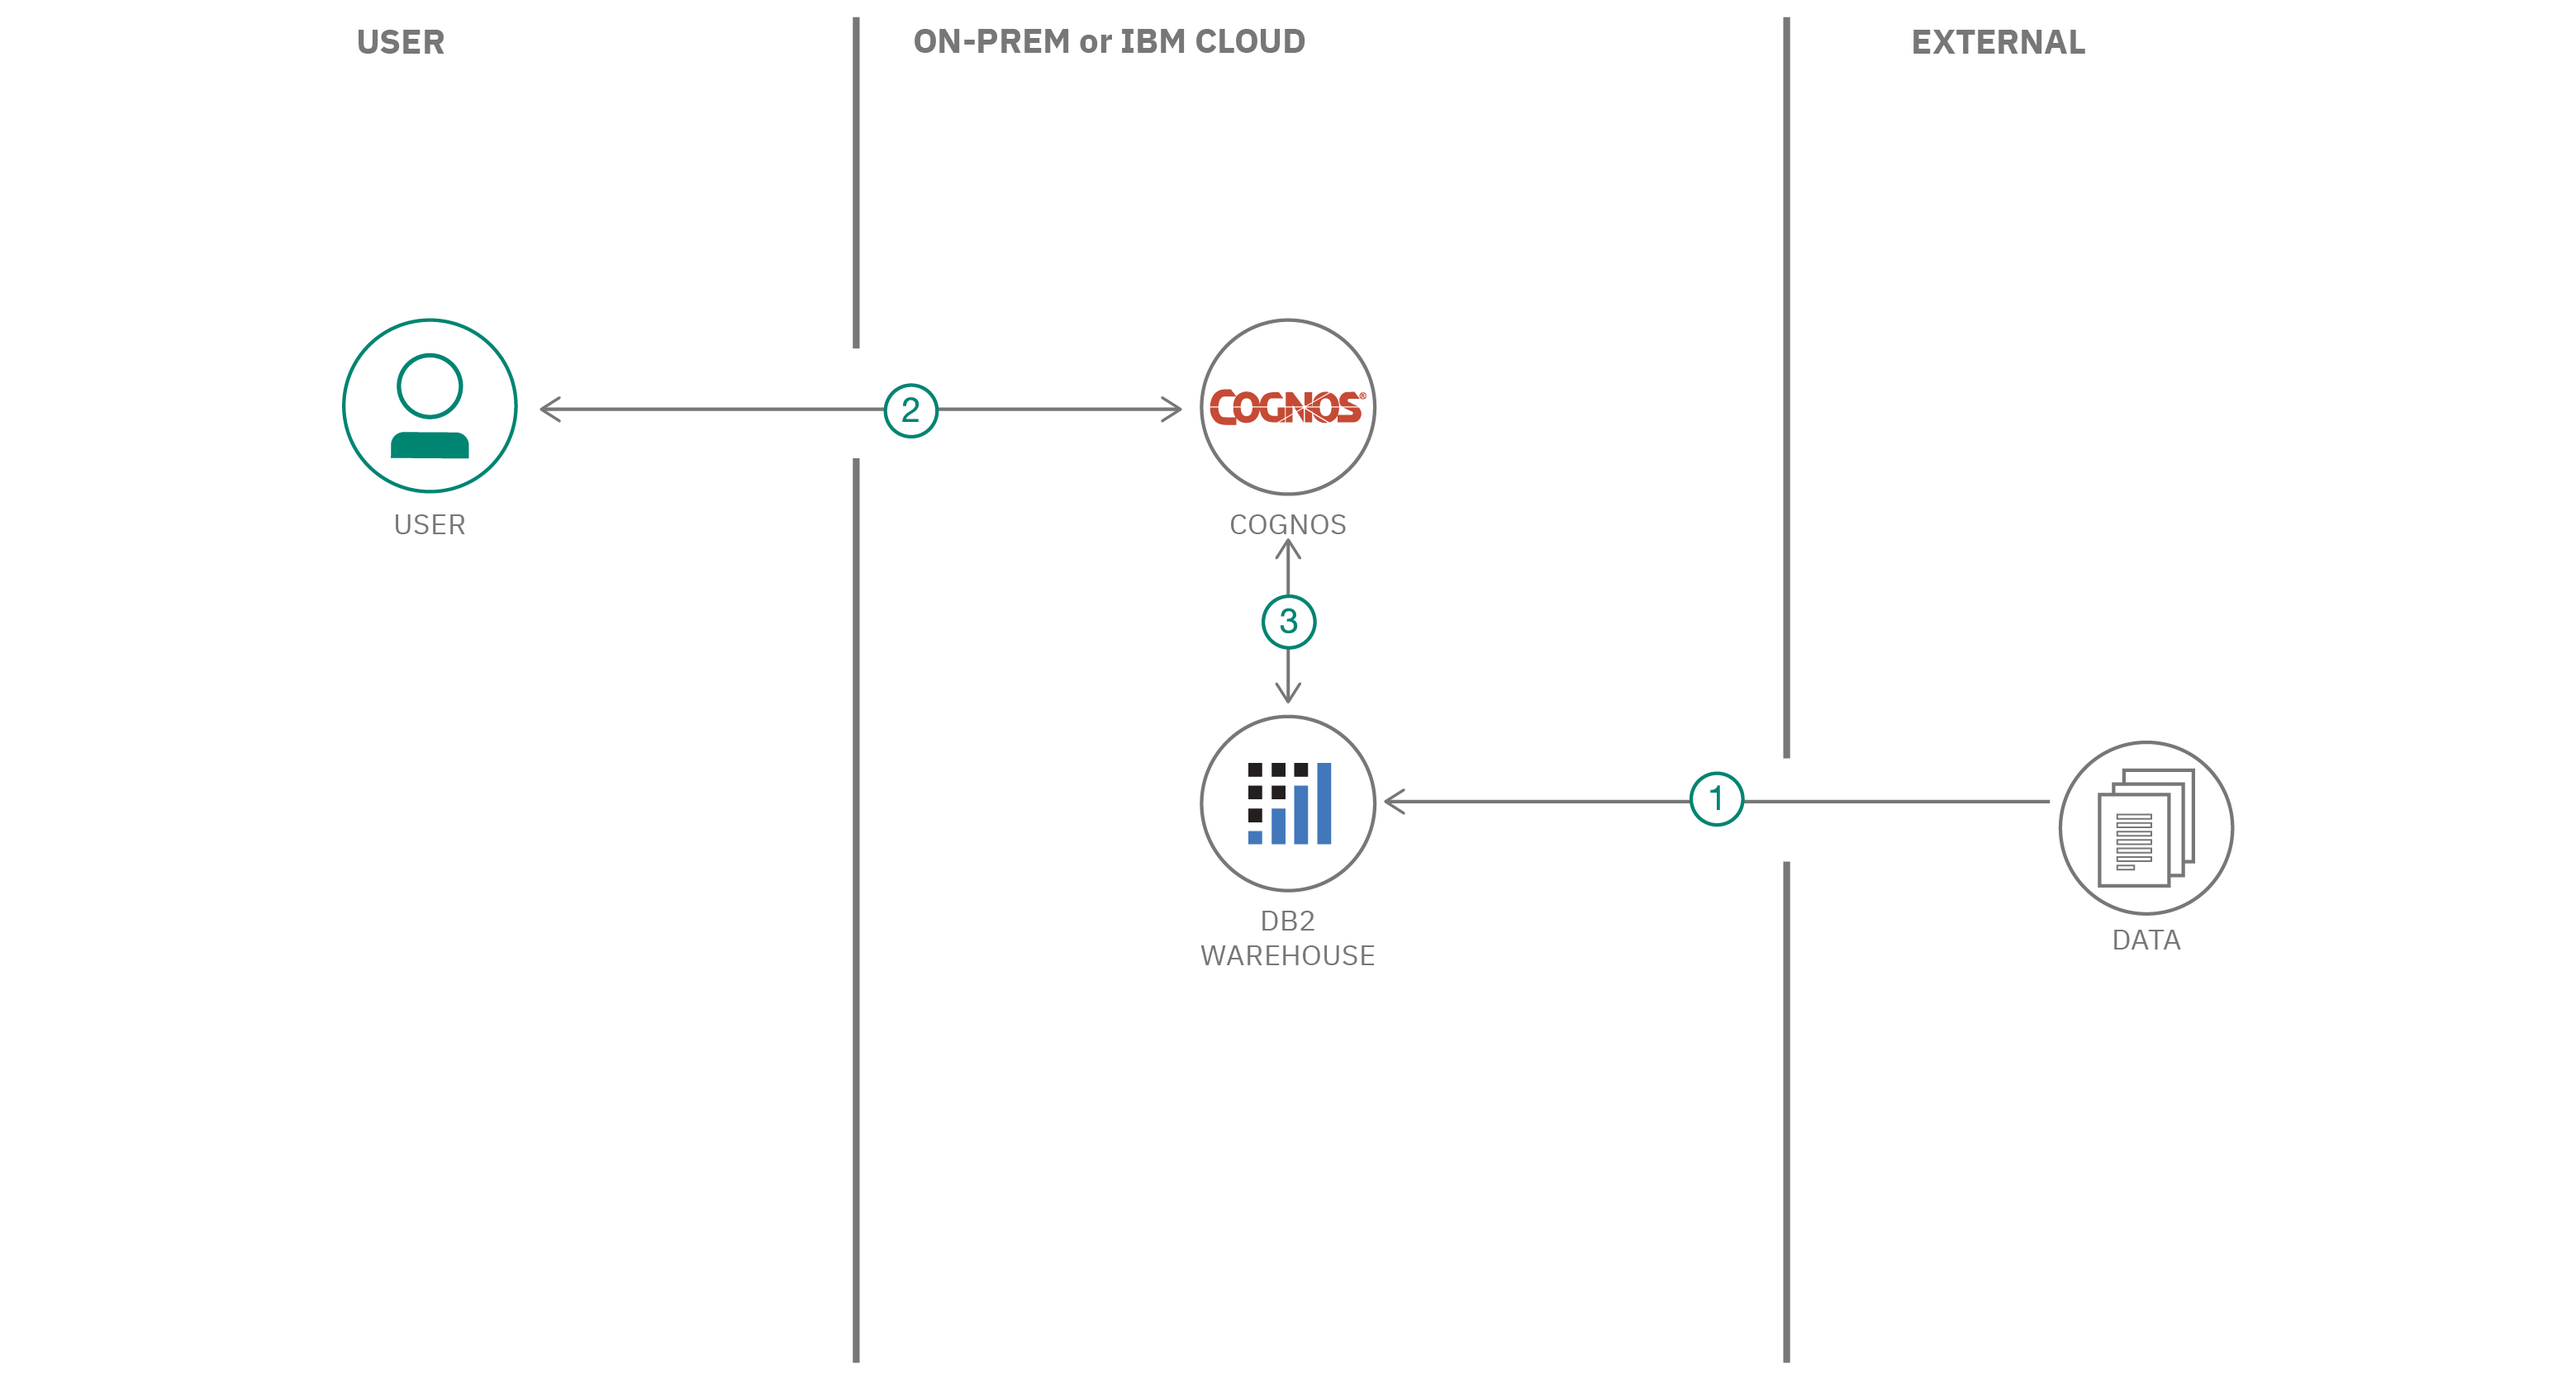
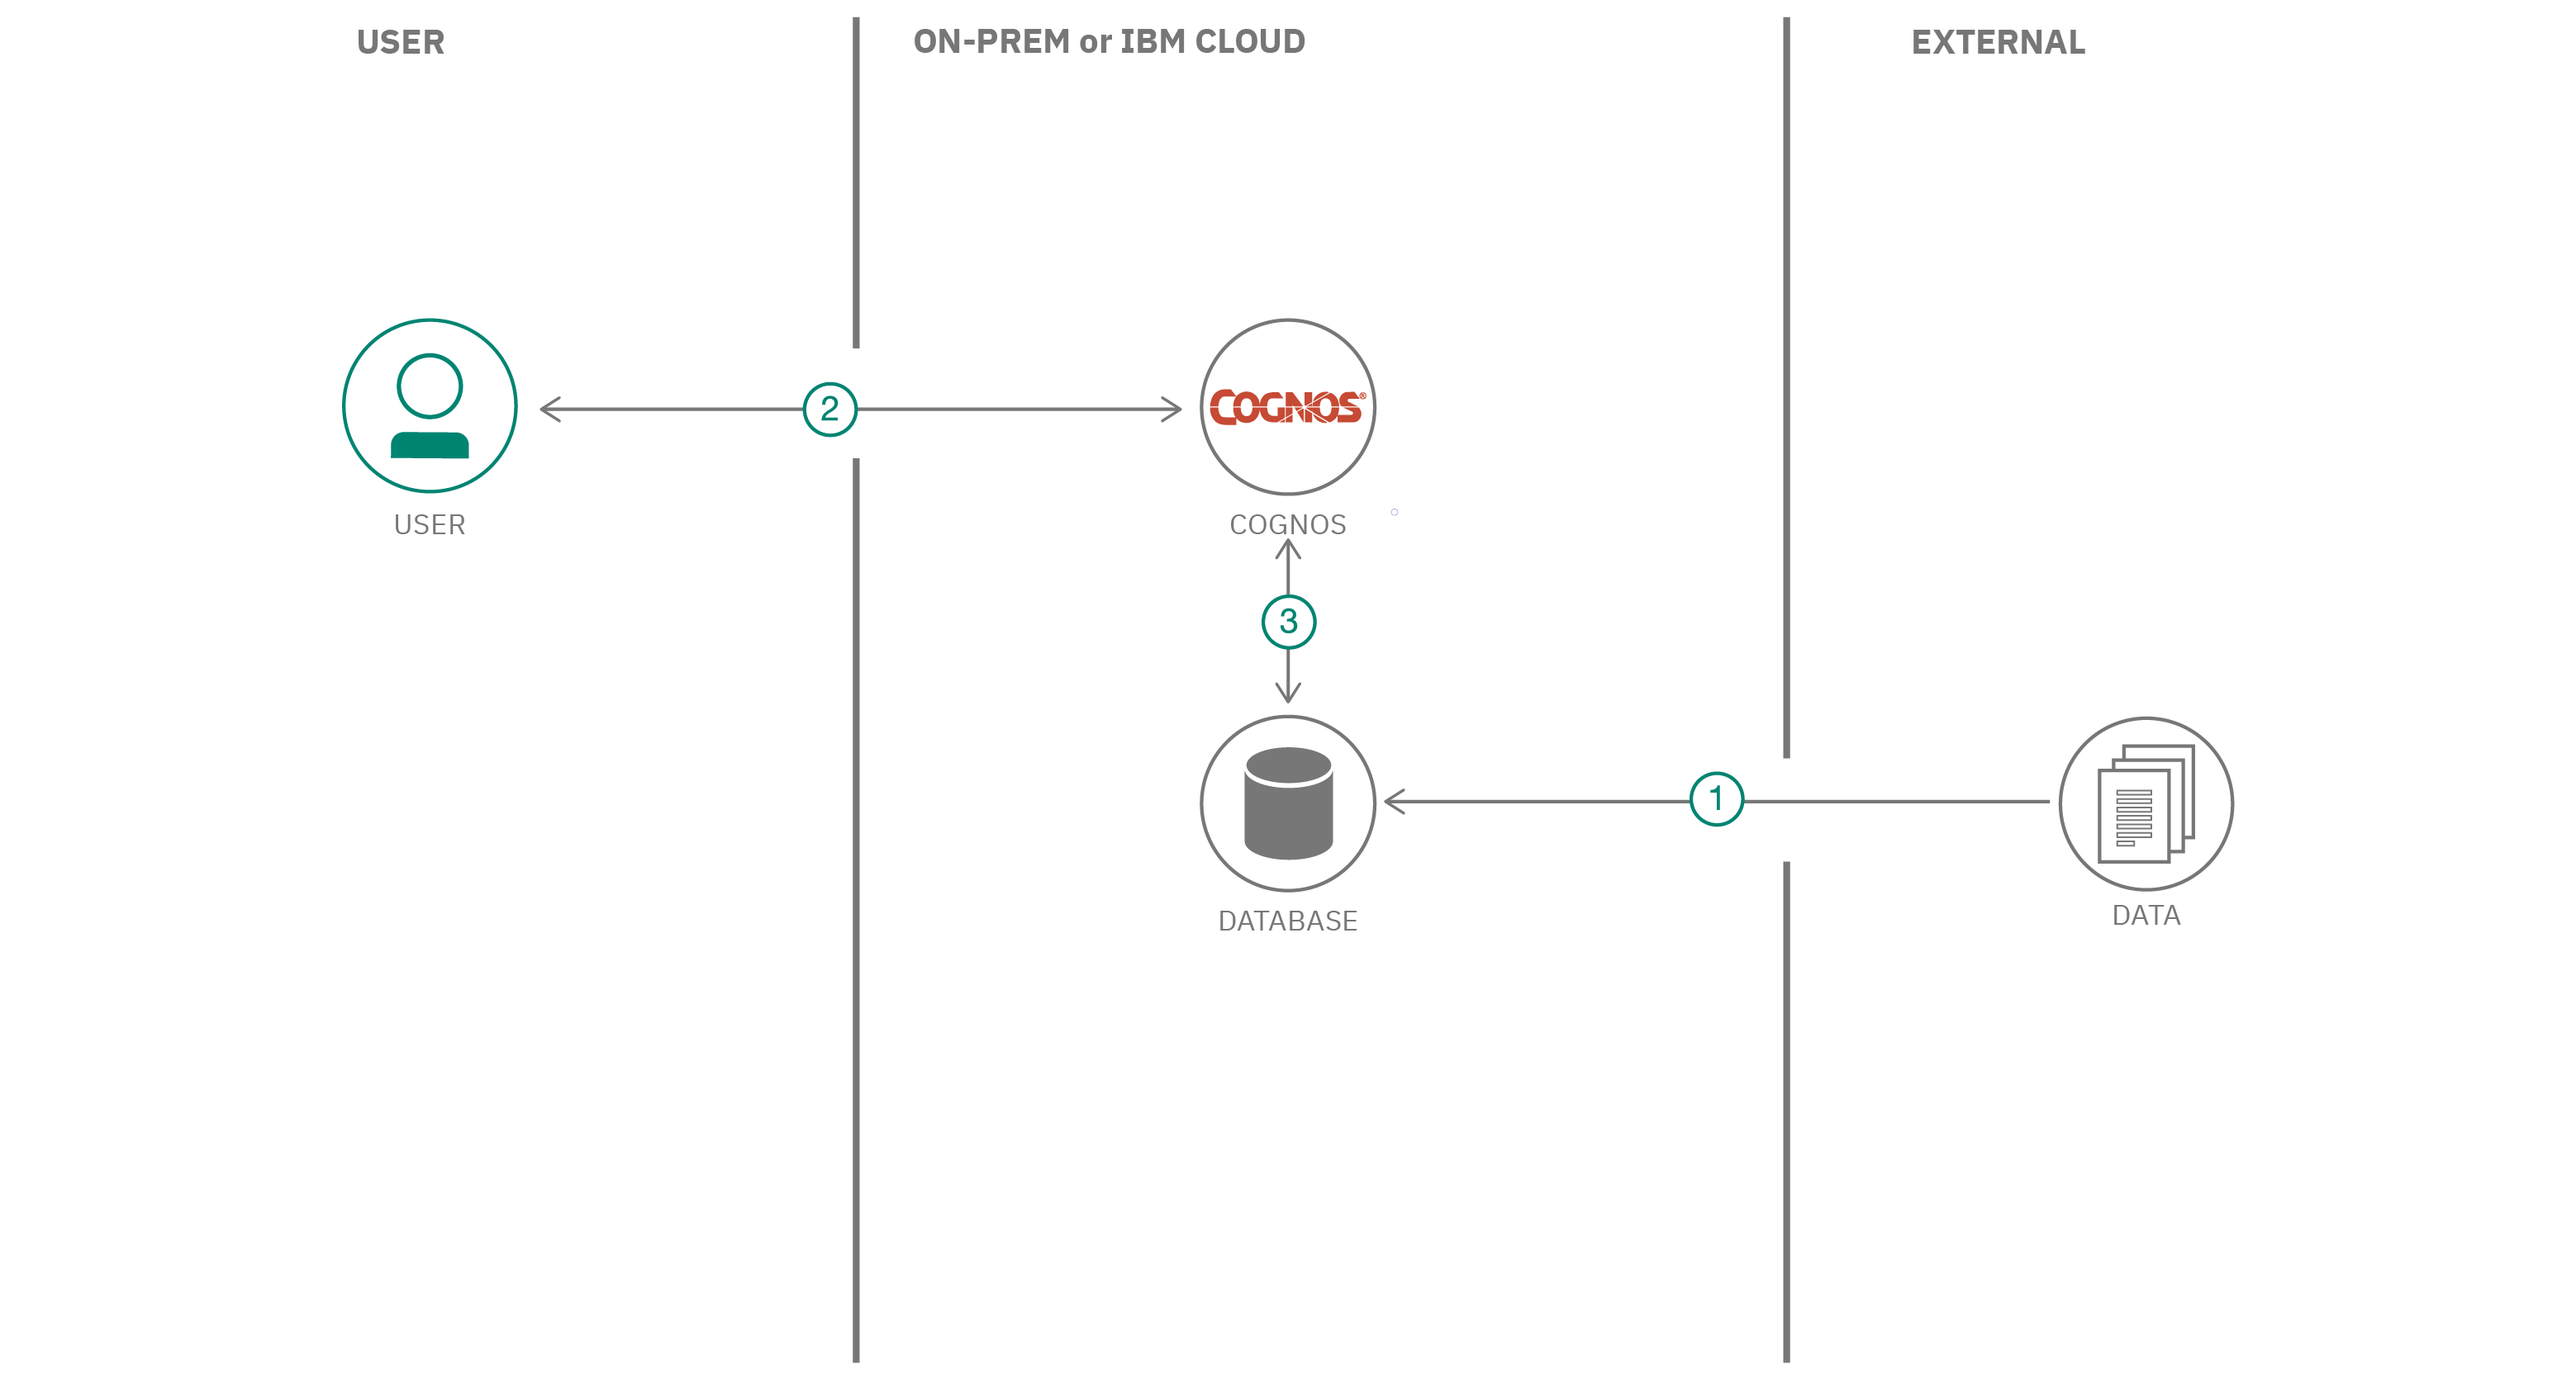
Added generic step to load database (#13)
* Added generic step to load database
* arch diagram

diff --git a/README.md b/README.md
@@ -31,14 +31,12 @@ In this code pattern, we add to this case study by introducing business data, su
 ## Steps
 
 1. [Clone the repo](#1-clone-the-repo)
-1. [Create IBM Db2 Warehouse service on IBM Cloud](#2-create-ibm-db2-warehouse-service-on-ibm-cloud)
-1. [Add Db2 service credentials to environment file](#3-add-db2-service-credentials-to-environment-file)
-1. [Run the script to load data into the database](#4-run-the-script-to-load-data-into-the-database)
-1. [Create database connection in Cognos Analytics](#5-create-database-connection-in-cognos-analytics)
-1. [Load metadata from the connected database](#6-load-metadata-from-the-connected-database)
-1. [Build a Data Module in Cognos Analytics](#7-build-a-data-module-in-cognos-analytics)
-1. [Create a Cognos Analytics dashboard](#8-create-a-cognos-analytics-dashboard)
-1. [Add visualizations to the dashboard](#9-add-visualizations-to-the-dashboard)
+1. [Load data into the database](#2-load-data-into-the-database)
+1. [Create database connection in Cognos Analytics](#3-create-database-connection-in-cognos-analytics)
+1. [Load metadata from the connected database](#4-load-metadata-from-the-connected-database)
+1. [Build a Data Module in Cognos Analytics](#5-build-a-data-module-in-cognos-analytics)
+1. [Create a Cognos Analytics dashboard](#6-create-a-cognos-analytics-dashboard)
+1. [Add visualizations to the dashboard](#7-add-visualizations-to-the-dashboard)
 
 ## 1. Clone the repo
 
@@ -52,15 +50,15 @@ and run
 npm install
 ```
 
-## 2. Create IBM Db2 Warehouse service on IBM Cloud
->NOTE:  This step is required only when you use IBM Db2 Warehouse as database.
+## 2. Load data into the database
+>NOTE:  The following sub-steps are required only when you use IBM Db2 Warehouse as database. The loading of the data for any other databases such as Netezza Performance Server, Mongo DB that Cognos Analytics support is manual.
 
+### 2.1. Create IBM Db2 Warehouse service on IBM Cloud
 Create the IBM Db2 Warehouse on Cloud service and make sure to note the credentials using the following link:
 
 * [**IBM Db2 Warehouse on Cloud**](https://cloud.ibm.com/catalog/services/db2-warehouse)
 
-## 3. Add Db2 service credentials to environment file
->NOTE:  This step is required only when you use IBM Db2 Warehouse as database. 
+### 2.2. Add Db2 service credentials to environment file
 
 Next, you'll need to add the Db2 Warehouse service credentials to the .env file.
 
@@ -80,8 +78,7 @@ The value can be copied from the `Service credentials` panel of your Db2 Waresho
 
 ![db2warehouse-credentials](doc/source/images/db2wh-service-creds.png)
 
-## 4. Run the script to load data into the database
->NOTE:  This step is required only when you use IBM Db2 Warehouse as database. The loading of the data for any other databases that Cognos Analytics support is manual.
+### 2.3. Run the script to load data into the database
 
 From the command prompt, go to the `lib/db` folder in your project directory and run the script to load business data into your IBM Db2 Warehouse service:
 
@@ -94,13 +91,13 @@ This will create the schema, assign relationships, and load the product and sale
 
 >NOTE: product reviews are loaded into IBM Db2 Warehouse from csv files. These files contain product reviews and sentiment values for each product and are generated from the Watson Discovery service. To learn more about this, visit the code pattern ["Visualize unstructured data from Watson Discovery in the Cognos Analytics Dashboard"](https://github.com/IBM/cognos-analytics-using-unstructured-data).
 
-## 5. Create database connection in Cognos Analytics
+## 3. Create database connection in Cognos Analytics
 
 IBM Cognos Analytics supports connections to many different databases, such as IBM Db2, Netezza Performcance Server, MongoDB, and MySQL. We will be showing how you can connect to an IBM Db2 database and to a Netezza Performance Server. 
 
 >NOTE: You can use either IBM Db2 or Netezza Performance Server. Hence, you can either run 5.1 or 5.2 based on what database you use. If you plan to use any other database that Cognos Analytics support, the steps are the same but use credentials and urls based on your database.
 
-### 5.1. Create connection to IBM Db2 database
+### 3.1. Create connection to IBM Db2 database
 
 * From the Cognos Analytics main dashboard, select `Manage` from the lower left corner  and click `Data Server Connections`.
 
@@ -122,7 +119,7 @@ IBM Cognos Analytics supports connections to many different databases, such as I
 
 ![dm-2-add-database-connection](doc/source/images/dm-2-add-database-connection.gif)
 
-### 5.2. Create connection to Netezza Performance Server
+### 3.2. Create connection to Netezza Performance Server
 
 * From the Cognos Analytics main dashboard, select `Manage` from the lower left corner and click `Data Server Connections`.
 
@@ -148,23 +145,23 @@ jdbc:netezza://<host>:5480/<database>
 
 ![dm-2-add-database-connection](doc/source/images/add-nps.gif)
 
-## 6. Load metadata from the connected Database
+## 4. Load metadata from the connected Database
 
 Once the connection is successful, you will need to load the metadata from the database. This will include tables, relationships and data.
 
-### 6.1. Load metadata for IBM Db2 Warehouse
+### 4.1. Load metadata for IBM Db2 Warehouse
 
 Select `Schemas` from the tab menu, and then select the schema `DB2INST1` from the list. Click the three dots on the right and then click `Load metadata`.
 
 ![dm-2-load-metadata](doc/source/images/dm-2-load-metadata.png)
 
-### 6.2. Load metadata for Netezza
+### 4.2. Load metadata for Netezza
 
 Select `Schemas` from the tab menu, and then select the appropriate schema from the list. Click the three dots on the right and then click `Load metadata`.
 
 ![dm-2-load-metadata](doc/source/images/load-nps-medata.gif)
 
-## 7. Build a Data Module in Cognos Analytics
+## 5. Build a Data Module in Cognos Analytics
 
 * From the Cognos Analytics main dashboard, select the `+` icon in the lower left corner. Select `Data Module`.
 
@@ -180,7 +177,7 @@ Select `Schemas` from the tab menu, and then select the appropriate schema from 
 
 ![dm-2-create-data-module](doc/source/images/dm-2-create-data-module.gif)
 
-## 8. Create a Cognos Analytics dashboard
+## 6. Create a Cognos Analytics dashboard
 
 From the current data module panel, select the `+` icon in the lower left corner. Select `Dashboard`.
 
@@ -192,7 +189,7 @@ Select the dashboard template or any other template that fits your need. We are 
 
 >**Note**: In this section we will be creating a new `Dashboard` that is associated with our new `Data Module`. This will mean that this dashboard is not connected to the dashboard we created in part one of our Cognos Analytics code pattern series. It is, however, possible to have multiple data modules (in our example, one for our `csv` files and one for our Db2 Warehouse connection) associated with the same dashboard. If you would like to do that, connect the Db2 Warehouse data module to the dashboard you created in the previous code pattern, and simply create a new dashboard tab to hold the new visualizations that we will be creating in the following steps.
 
-## 9. Add visualizations to the dashboard
+## 7. Add visualizations to the dashboard
 
 In this section we will create visualizations using the schema and data loaded from our IBM Db2 Warehouse database.
 
